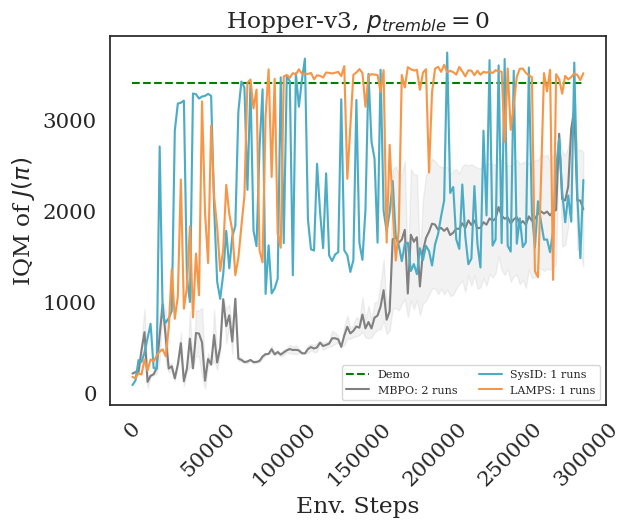
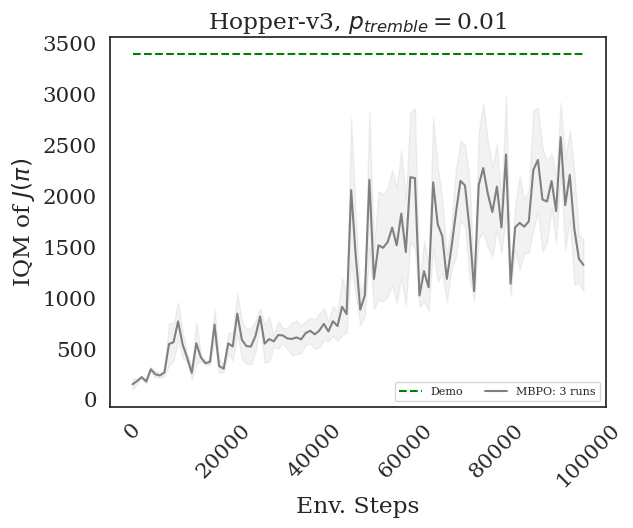
add ant config and add data from end

Changed region(s): [[0.0, 0.0, 0.9635, 1.0], [0.8732, 0.8197, 0.9937, 0.9412]]

diff --git a/MujocoSysID/mbrl/algorithms/lamps.py b/MujocoSysID/mbrl/algorithms/lamps.py
@@ -23,6 +23,7 @@ from mbrl.planning.sac_wrapper import SACAgent
 from mbrl.third_party.pytorch_sac import VideoRecorder
 from mbrl.util.fetch_demos import fetch_demos
 
+import d4rl
 from tqdm import tqdm
 
 MBPO_LOG_FORMAT = mbrl.constants.EVAL_LOG_FORMAT + [
@@ -30,7 +31,17 @@ MBPO_LOG_FORMAT = mbrl.constants.EVAL_LOG_FORMAT + [
     ("rollout_length", "RL", "int"),
 ]
 
-import d4rl
+
+class PrintColors:
+    HEADER = "\033[95m"
+    OKBLUE = "\033[94m"
+    OKCYAN = "\033[96m"
+    OKGREEN = "\033[92m"
+    WARNING = "\033[93m"
+    FAIL = "\033[91m"
+    ENDC = "\033[0m"
+    BOLD = "\033[1m"
+    UNDERLINE = "\033[4m"
 
 
 def rollout_model_and_populate_sac_buffer(
@@ -207,14 +218,25 @@ def train(
         expert_dataset["rewards"][:1000],
         expert_dataset["terminals"][:1000],
     )
-    expert_replay_buffer.add_batch(
-        expert_dataset["observations"][: cfg.overrides.expert_size],
-        expert_dataset["actions"][: cfg.overrides.expert_size],
-        expert_dataset["next_observations"][: cfg.overrides.expert_size],
-        expert_dataset["rewards"][: cfg.overrides.expert_size],
-        expert_dataset["terminals"][: cfg.overrides.expert_size],
-    )
-    print("Expert buffer size: ", cfg.overrides.expert_size)
+    if cfg.from_end:
+        print(f"{PrintColors.OKBLUE}Adding from end of expert dataset")
+        expert_replay_buffer.add_batch(
+            expert_dataset["observations"][-cfg.overrides.expert_size :],
+            expert_dataset["actions"][-cfg.overrides.expert_size :],
+            expert_dataset["next_observations"][-cfg.overrides.expert_size :],
+            expert_dataset["rewards"][-cfg.overrides.expert_size :],
+            expert_dataset["terminals"][-cfg.overrides.expert_size :],
+        )
+    else:
+        print(f"{PrintColors.OKBLUE}Adding from end of expert dataset")
+        expert_replay_buffer.add_batch(
+            expert_dataset["observations"][: cfg.overrides.expert_size],
+            expert_dataset["actions"][: cfg.overrides.expert_size],
+            expert_dataset["next_observations"][: cfg.overrides.expert_size],
+            expert_dataset["rewards"][: cfg.overrides.expert_size],
+            expert_dataset["terminals"][: cfg.overrides.expert_size],
+        )
+    print(f"Expert buffer size: {cfg.overrides.expert_size}{PrintColors.ENDC}")
 
     # ---------------------------------------------------------
     # --------------------- Training Loop ---------------------

diff --git a/MujocoSysID/mbrl/algorithms/sysid.py b/MujocoSysID/mbrl/algorithms/sysid.py
@@ -33,6 +33,18 @@ MBPO_LOG_FORMAT = mbrl.constants.EVAL_LOG_FORMAT + [
 ]
 
 
+class PrintColors:
+    HEADER = "\033[95m"
+    OKBLUE = "\033[94m"
+    OKCYAN = "\033[96m"
+    OKGREEN = "\033[92m"
+    WARNING = "\033[93m"
+    FAIL = "\033[91m"
+    ENDC = "\033[0m"
+    BOLD = "\033[1m"
+    UNDERLINE = "\033[4m"
+
+
 def rollout_model_and_populate_sac_buffer(
     model_env: mbrl.models.ModelEnv,
     replay_buffer: mbrl.util.ReplayBuffer,
@@ -195,14 +207,25 @@ def train(
         expert_dataset["rewards"][:1000],
         expert_dataset["terminals"][:1000],
     )
-    expert_replay_buffer.add_batch(
-        expert_dataset["observations"][: cfg.overrides.expert_size],
-        expert_dataset["actions"][: cfg.overrides.expert_size],
-        expert_dataset["next_observations"][: cfg.overrides.expert_size],
-        expert_dataset["rewards"][: cfg.overrides.expert_size],
-        expert_dataset["terminals"][: cfg.overrides.expert_size],
-    )
-    print("Expert buffer size: ", cfg.overrides.expert_size)
+    if cfg.from_end:
+        print(f"{PrintColors.OKBLUE}Adding from end of expert dataset")
+        expert_replay_buffer.add_batch(
+            expert_dataset["observations"][-cfg.overrides.expert_size :],
+            expert_dataset["actions"][-cfg.overrides.expert_size :],
+            expert_dataset["next_observations"][-cfg.overrides.expert_size :],
+            expert_dataset["rewards"][-cfg.overrides.expert_size :],
+            expert_dataset["terminals"][-cfg.overrides.expert_size :],
+        )
+    else:
+        print(f"{PrintColors.OKBLUE}Adding from end of expert dataset")
+        expert_replay_buffer.add_batch(
+            expert_dataset["observations"][: cfg.overrides.expert_size],
+            expert_dataset["actions"][: cfg.overrides.expert_size],
+            expert_dataset["next_observations"][: cfg.overrides.expert_size],
+            expert_dataset["rewards"][: cfg.overrides.expert_size],
+            expert_dataset["terminals"][: cfg.overrides.expert_size],
+        )
+    print(f"Expert buffer size: {cfg.overrides.expert_size}{PrintColors.ENDC}")
 
     # ---------------------------------------------------------
     # --------------------- Training Loop ---------------------

diff --git a/MujocoSysID/generate_plots.py b/MujocoSysID/generate_plots.py
@@ -78,8 +78,16 @@ def main(env_abbrv, env_name):
         # "hum": 5708.24,
         # "walk": 5740.80,
     }
+    env_name_to_ptremble = {
+        "ant": 0.01,
+        "hc": 0.075,
+        "hop": 0.01,
+        "walk": 0.05,
+        "hum": 0.025,
+    }
 
-    steps = 150
+    # steps = 150
+    steps = 100
     sz = 1000
     for alg in algs_to_colors.keys():
         if alg == "exp":
@@ -91,16 +99,11 @@ def main(env_abbrv, env_name):
                 label=algs_to_labels[alg],
             )
         else:
-            # if alg == "mbpo":
-            #     steps = 125
-            #     sz = 2000
-            # else:
-            #     steps = 124
-            #     sz = 2000
             csvs = [f for f in csv_results_dir.glob("*.csv") if alg in f.name]
             scores = []
             for csv in csvs:
                 data = pd.read_csv(csv).episode_reward.to_numpy()
+                shaky = "shaky" in csv.name
                 if len(data) >= steps:
                     scores.append(data[:steps])
                 else:
@@ -133,12 +136,17 @@ def main(env_abbrv, env_name):
             )
             print(f"Plotting {alg} with {len(scores)} runs")
 
+    if shaky:
+        p_tremble = env_name_to_ptremble[env_abbrv]
+    else:
+        p_tremble = 0
+
     env_name = env_name.replace("gym___", "")
     plt.legend(ncol=2, fontsize=8)
     plt.ylabel("IQM of $J(\\pi)$")
     plt.xlabel("Env. Steps")
     plt.xticks(rotation=45)
-    plt.title(f"{env_name}, " + "$p_{tremble}=$" + str(0))
+    plt.title(f"{env_name}, " + "$p_{tremble}=$" + str(p_tremble))
     plt.savefig(f"plots/{env_name}.png", bbox_inches="tight")
     print("SAVED")
 

diff --git a/MujocoSysID/aggregate_hyrda_results.py b/MujocoSysID/aggregate_hyrda_results.py
@@ -13,7 +13,7 @@ def is_non_zero_file(fpath):
 
 def main(env_name, override, partition, date):
     algs = ["lamps", "sysid", "mbpo"]
-    target_entries = 150
+    target_entries = 100
 
     for alg in algs:
         base_dir = Path("exp", alg, partition, env_name)
@@ -26,7 +26,7 @@ def main(env_name, override, partition, date):
                     f.unlink()
 
         # loop through date/run_id/multi_run_num
-        for subdir in base_dir.glob(f"{date}/*/*"):
+        for subdir in base_dir.glob(f"{date}/*"):
             if not subdir.is_dir():
                 continue
             results_file = Path(subdir, "results.csv")
@@ -61,11 +61,16 @@ def main(env_name, override, partition, date):
                 try:
                     hydra_yml = yaml.safe_load(stream)
                     seed = hydra_yml.get("seed")
+                    shaky = hydra_yml.get("shaky")
                 except yaml.YAMLError as exc:
                     print(exc)
 
             # Copy the csv file to the csv_results directory
-            new_file_path = Path(csv_results_dir, f"{alg}_s{seed}.csv")
+            if shaky:
+                new_file_path = Path(csv_results_dir, f"{alg}_s{seed}_shaky.csv")
+            else:
+                new_file_path = Path(csv_results_dir, f"{alg}_s{seed}.csv")
+
             if new_file_path.exists():
                 continue
             shutil.copy(results_file, new_file_path)

diff --git a/MujocoSysID/mbrl/env/shaky_hands.py b/MujocoSysID/mbrl/env/shaky_hands.py
@@ -19,7 +19,9 @@ class TremblingHandWrapper(gym.Wrapper):
         super().__init__(env)
         self.env = env
         self.p_tremble = p_tremble
-        print(f"{PrintColors.OKBLUE}{p_tremble=}{PrintColors.ENDC}")
+        print(
+            f"{PrintColors.OKBLUE}{str(self.env).split()[0].rsplit('<', 1)[1]} {p_tremble=}{PrintColors.ENDC}"
+        )
 
     def reset(self):
         return self.env.reset()
